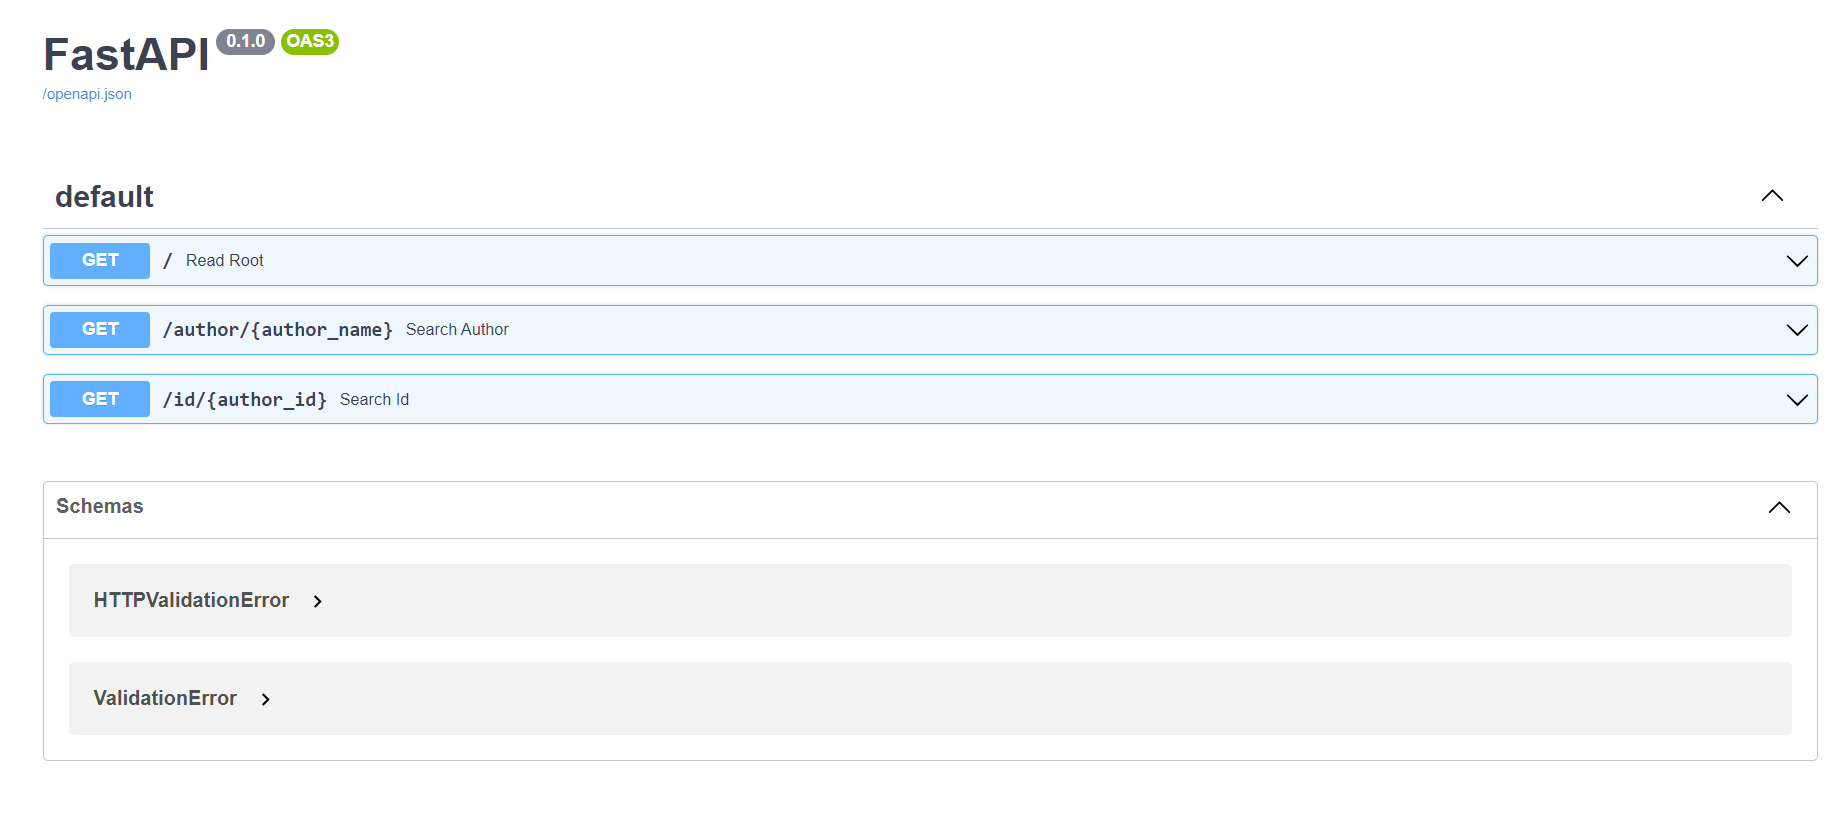
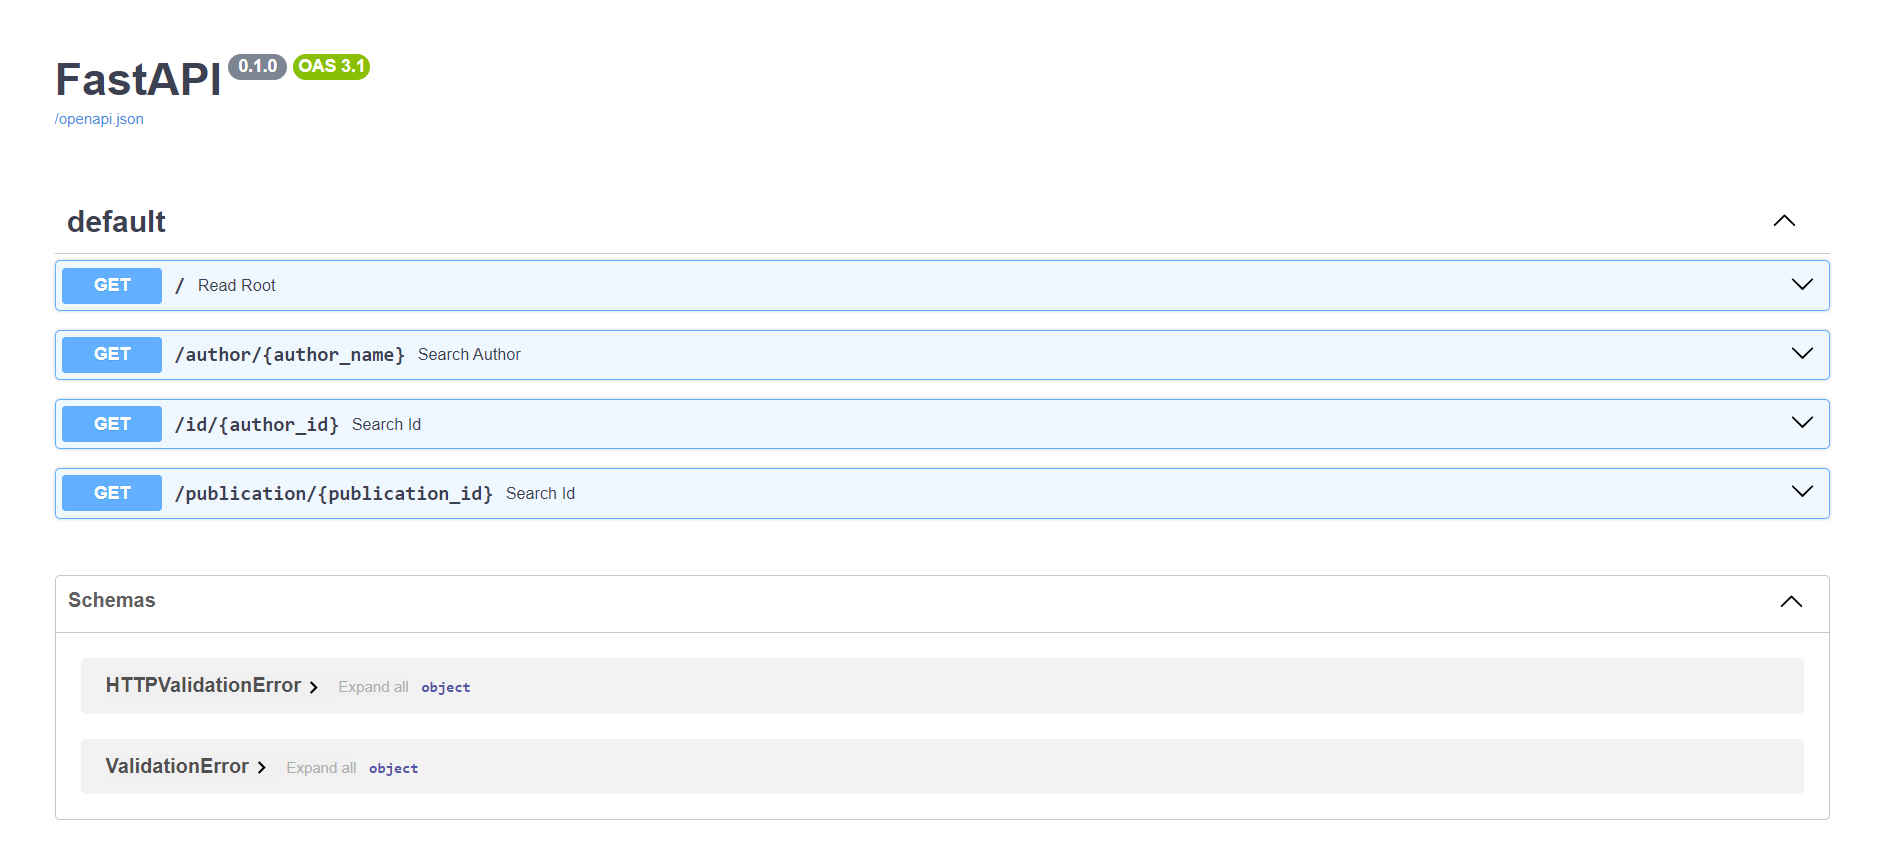
clear root directpry; add one more app route (doi)

diff --git a/OpenAlex/fastapi/download_doi.py b/OpenAlex/fastapi/download_doi.py
@@ -1,0 +1,47 @@
+import requests
+# Date Time: 2022.3.7
+# Author: jing_zhong
+# function: Download English-paper by DOI
+
+
+def GetDownloadUrl(DOI_EnglishPaper):
+    BaseWebStation = 'https://sci-hub.se/'
+    url = BaseWebStation + DOI_EnglishPaper
+    print(url)
+    r = requests.get(url)
+    result_txt = r.text
+    result_list = result_txt.strip('').split('\n')
+    # print(result_list)
+    myres = ''
+    for line in result_list:
+        line = line.strip('\n')
+        if line.find('<button onclick =') >= 0:
+            myres += line
+    if myres == '':
+        myres = 'No Result!'
+    elif myres.find('//') >= 0:
+        myres = 'https:' + myres[myres.find('//'):myres.find('?download=true')]
+        # First way： button onclick <button οnclick="location.href='//twin.sci-hub.se/6748/d3cada06ce457b96477116e17c8273e5/nguyen2018.pdf?download=true'">↓ save</button>
+    elif myres.find('/downloads') >= 0:
+        myres = 'https://sci-hub.se' + \
+            myres[myres.find('/downloads'):myres.find('?download=true')]
+        # Second way： <button οnclick="location.href='/downloads/2021-05-18/9c/ananias2021.pdf?download=true'">↓ save</button>
+    return myres
+
+
+def DownloadFileByUrl(DownloadUrl):
+    if DownloadUrl != '' and DownloadUrl.find('http') >= 0:
+        FileName = DownloadUrl.split('/')[-1]
+        r1 = requests.get(DownloadUrl)
+        if r1:
+            with open(FileName, "wb") as code:
+                code.write(r1.content)
+                print(DownloadUrl + '  File ' + FileName +
+                      '  has been downloaded successfully!')
+        else:
+            print('Failed to download')
+
+
+# doi_EnglishPaper = 'https://doi.org/10.1038/nature07970'
+# paperDownloadUrl = GetDownloadUrl(doi_EnglishPaper)  # doi_EnglishPaper
+# DownloadFileByUrl(paperDownloadUrl)

diff --git a/OpenAlex/fastapi/construct_graph.py b/OpenAlex/fastapi/construct_graph.py
@@ -27,6 +27,10 @@ from neo4j import GraphDatabase
 import os
 from dotenv import load_dotenv
 import json
+import logging
+# Configure the logger
+logging.basicConfig(level=logging.DEBUG,
+                    format='%(asctime)s - %(name)s - %(levelname)s - %(message)s')
 
 
 def construct_graph(data):
@@ -52,8 +56,11 @@ def construct_graph(data):
                             titles=publication['title'],
                             paper_id=publication['paper_id'])
             except:
-                pass
-
+                logging.error(
+                    f"Error creating publication node for {publication['title']}")
+                session.run(query,
+                            titles="no title",
+                            paper_id=publication['paper_id'])
             # Iterate over the coauthors of the publication
             if publication['coauthors'] is not None:
                 for coauthor in publication['coauthors']:

diff --git a/OpenAlex/fastapi/main.py b/OpenAlex/fastapi/main.py
@@ -1,6 +1,7 @@
 from fastapi import FastAPI
 import requests
 from construct_graph import construct_graph
+from download_doi import GetDownloadUrl, DownloadFileByUrl
 app = FastAPI()
 
 
@@ -53,3 +54,11 @@ def search_id(author_id: str, n: int = 2):
             for coauthor in relation["coauthors"]:
                 search_id(coauthor["id"], n-1)
     # return relations
+
+
+@app.get("/publication/{publication_id}")
+def search_id(publication_doi: str):
+    """search for publication ID, download its PDF using sci-hub"""
+    doi = publication_doi
+    paperDownloadUrl = GetDownloadUrl(doi)  # doi
+    DownloadFileByUrl(paperDownloadUrl)

diff --git a/README.md b/README.md
@@ -12,7 +12,7 @@
 
 ## Update
 
-[on 2023-10-17] Instruction on the use of Fastapi App\
+[On 2023-10-18] Instruction on the use of Fastapi App in `OpenAlex\fastapi` directory\
 Go to the folder `cd OpenAlex\fastapi`\
 Create a vitual environment and install the dependencies and activate the environment:
 
@@ -28,7 +28,11 @@ After correctly installed and activate the environment, run the fastapi server:
 uvicorn main:app --reload
 ```
 
-Now you can explore the api at `http://127.0.0.1:8000/docs`. Currently, the app supports search author by name and getting n levels of coauthors.
+Now you can explore the api at `http://127.0.0.1:8000/docs`. Currently, the app supports
+
+- Search author name and get a list of result authors
+- Search author by id and getting n levels of coauthors.
+- Search publication by doi and get the pdf downloaded to local
 
 ![](graphics/fastapi.png)
 
